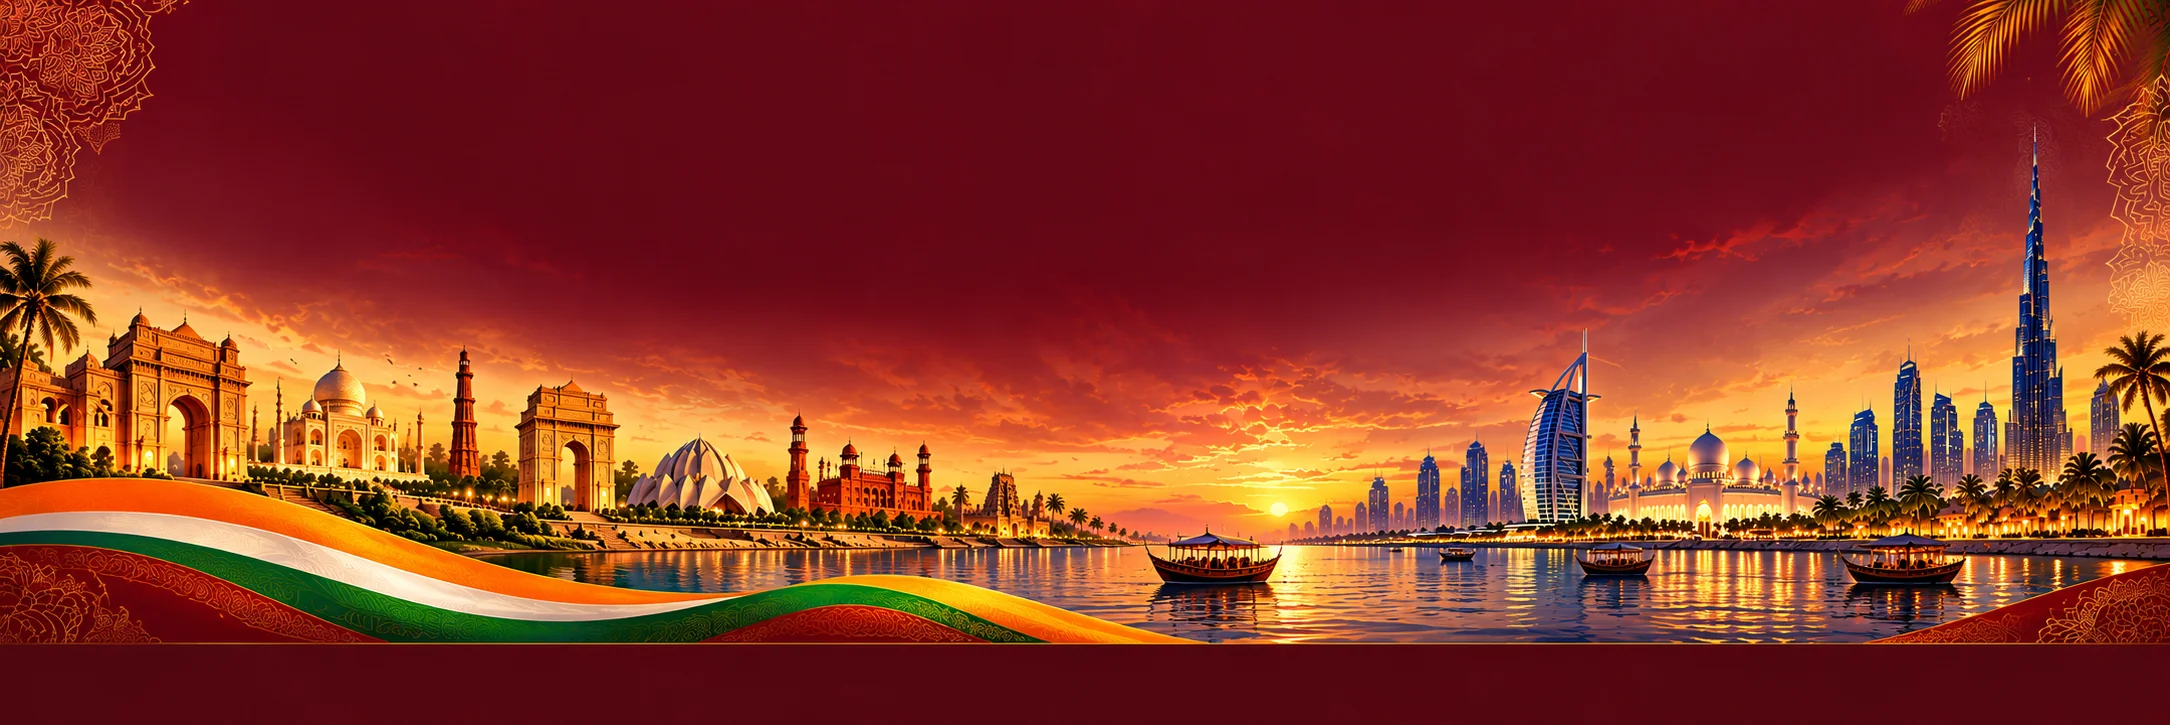
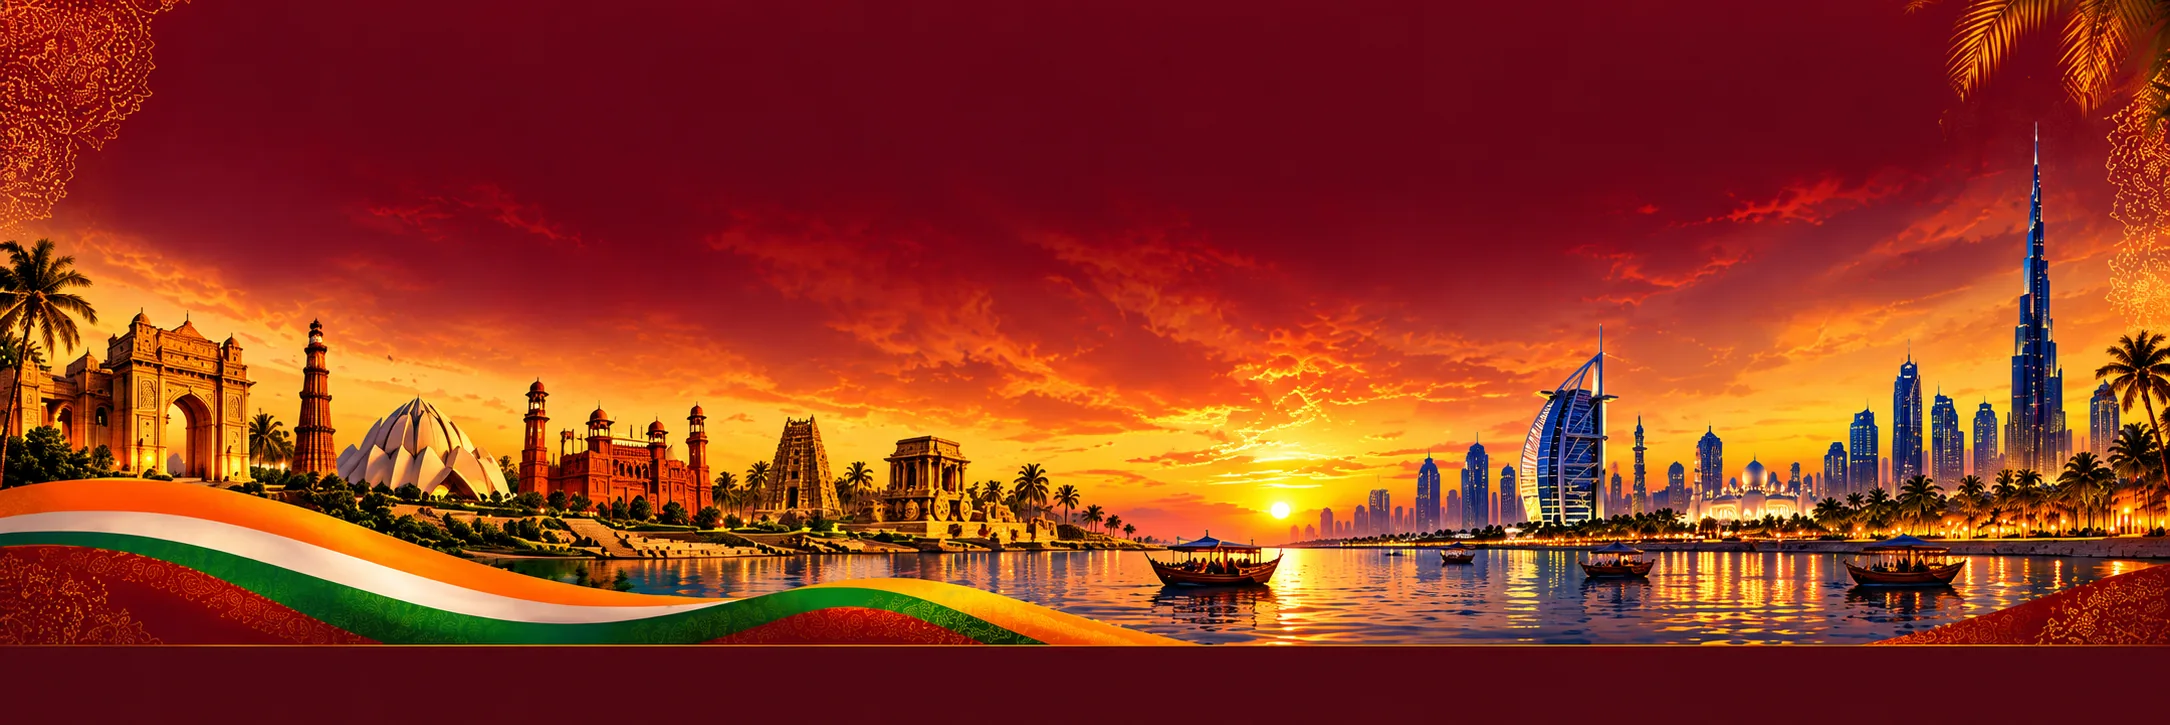
feat(footer): swap panoramic artwork, show full image, drop overlay
Image swap:
  - public/footer-india-uae.webp replaced with the new approved India-UAE sunset
    panorama (2170x725, 215 KB WebP; same dimensions as the previous asset so no
    responsive calculations change).

Implementation:
  - object-cover + object-position per breakpoint → object-contain object-center.
    Guarantees the ENTIRE artwork is visible at every width — gold corner flourishes,
    palm fronds, Gateway of India / Qutub Minar / Lotus Temple / Red Fort / temples /
    India Gate on the left, sunset + boats in the centre, Burj Al Arab / Burj Khalifa /
    UAE skyline on the right, and the stylised tricolour wave at the bottom. At narrow
    viewports the image letterboxes to the burgundy base, which matches the artwork's
    own burgundy sky so the seam reads as a single continuous background.
  - Removed the burgundy→transparent gradient overlay. The artwork's own burgundy top
    band provides the text contrast; no additional CSS chrome needed.
  - Simplified the scoped CSS opt-out to the two layers that actually render
    (.ipf-footer-art + .ipf-footer-art-base). .ipf-footer-art-overlay no longer exists.

diff --git a/src/components/Footer.tsx b/src/components/Footer.tsx
@@ -104,13 +104,11 @@ export function Footer() {
          absolutely behind every content layer so the composition — India (left) → sunset
          (centre) → UAE (right) — reads intact, and the content sits over it. object-position
          is tuned per breakpoint via CSS below. */}
-      {/* object-position tuning:
-          - mobile (<768px): the panoramic image is 2170x725 (≈3:1); the footer stacks tall,
-            so the image is cropped horizontally. Centre horizontally so the sunset / central
-            boat / Burj Al Arab silhouette remain the first-read; vertical bias slightly below
-            centre (60%) so skyline silhouettes do not get clipped at the top.
-          - tablet (≥768px): bias slightly below centre so the lower horizon reads richer.
-          - desktop (≥1024px): true centre; the full panorama is visible. */}
+      {/* object-contain so the entire panorama — gold corner flourishes, palm fronds,
+         India + UAE landmarks, sunset, water band and the stylised tricolour wave at
+         the bottom — is always visible, never cropped. At viewport widths narrower
+         than the image's ~3:1 aspect ratio the image letterboxes to the burgundy base
+         below, which matches the artwork's own burgundy sky at the seam. */}
       <img
         src={INDIA_UAE_BG}
         alt=""
@@ -119,31 +117,16 @@ export function Footer() {
         decoding="async"
         width={2170}
         height={725}
-        className="ipf-footer-art pointer-events-none absolute inset-0 -z-10 h-full w-full object-cover
-                   object-[50%_60%] md:object-[50%_55%] lg:object-center"
+        className="ipf-footer-art pointer-events-none absolute inset-0 -z-10 h-full w-full object-contain object-center"
       />
 
-      {/* Base burgundy fill in case the image is still loading; matches the artwork's maroon so
-         the first paint doesn't flash a different colour. */}
+      {/* Base burgundy fill that both covers initial load and matches the colour of the
+         artwork's own sky so letterbox bands at narrower viewports read as a continuous
+         background with no visible seam. */}
       <div
         aria-hidden="true"
         className="ipf-footer-art-base pointer-events-none absolute inset-0 -z-20"
         style={{ backgroundColor: "#5a0f1e" }}
-      />
-
-      {/* Subtle burgundy → transparent → black-at-bottom gradient to anchor text contrast
-         without covering the landmarks. The gradient is strongest where the navigation
-         columns sit; the central sunset/water band stays open. */}
-      {/* Overlay strategy (top → bottom):
-          0%   — strong burgundy wash so navigation and brand mark stay readable
-          18%  — burgundy already halving
-          34%  — burgundy becoming thin; sunset starts coming through
-          58%  — fully transparent so the water band + silhouettes read naturally
-         100%  — gentle 20% black at the very bottom to give the legal bar a seam */}
-      <div
-        aria-hidden="true"
-        className="ipf-footer-art-overlay pointer-events-none absolute inset-0 -z-10
-                   bg-[linear-gradient(180deg,rgba(90,15,30,0.82)_0%,rgba(90,15,30,0.56)_18%,rgba(90,15,30,0.22)_34%,rgba(90,15,30,0)_58%,rgba(0,0,0,0.20)_100%)]"
       />
 
       {/* Container padding reduced ~20% from the pre-tuning values so the burgundy

diff --git a/src/index.css b/src/index.css
@@ -546,12 +546,11 @@ html:not([lang="en"]) thead th {
  * orange/white/green side ribbons bleeding over the panorama. The artwork is now the
  * footer's primary visual element. */
 .site-footer > * { position:relative; z-index:1; }
-/* Opt-out for the India-UAE panoramic footer artwork + its contrast overlay. The three
- * layers below are decorative background chrome that must sit behind content, so they
+/* Opt-out for the India-UAE panoramic footer artwork + its burgundy base. The two
+ * layers below are decorative background that must sit behind content, so they
  * explicitly override the generic .site-footer > * rule above. Selector specificity
  * (0,2,0) beats both the generic rule and the Tailwind utility -z-10 (0,1,0). */
-.site-footer > .ipf-footer-art,
-.site-footer > .ipf-footer-art-overlay { position:absolute; z-index:-10; }
+.site-footer > .ipf-footer-art { position:absolute; z-index:-10; }
 .site-footer > .ipf-footer-art-base { position:absolute; z-index:-20; }
 @keyframes global-ambient-one { from { transform:translate3d(0,0,0) scale(.94); } to { transform:translate3d(-4vw,5vh,0) scale(1.08); } }
 @keyframes global-ambient-two { from { transform:translate3d(0,0,0) scale(1); } to { transform:translate3d(5vw,-4vh,0) scale(1.1); } }
